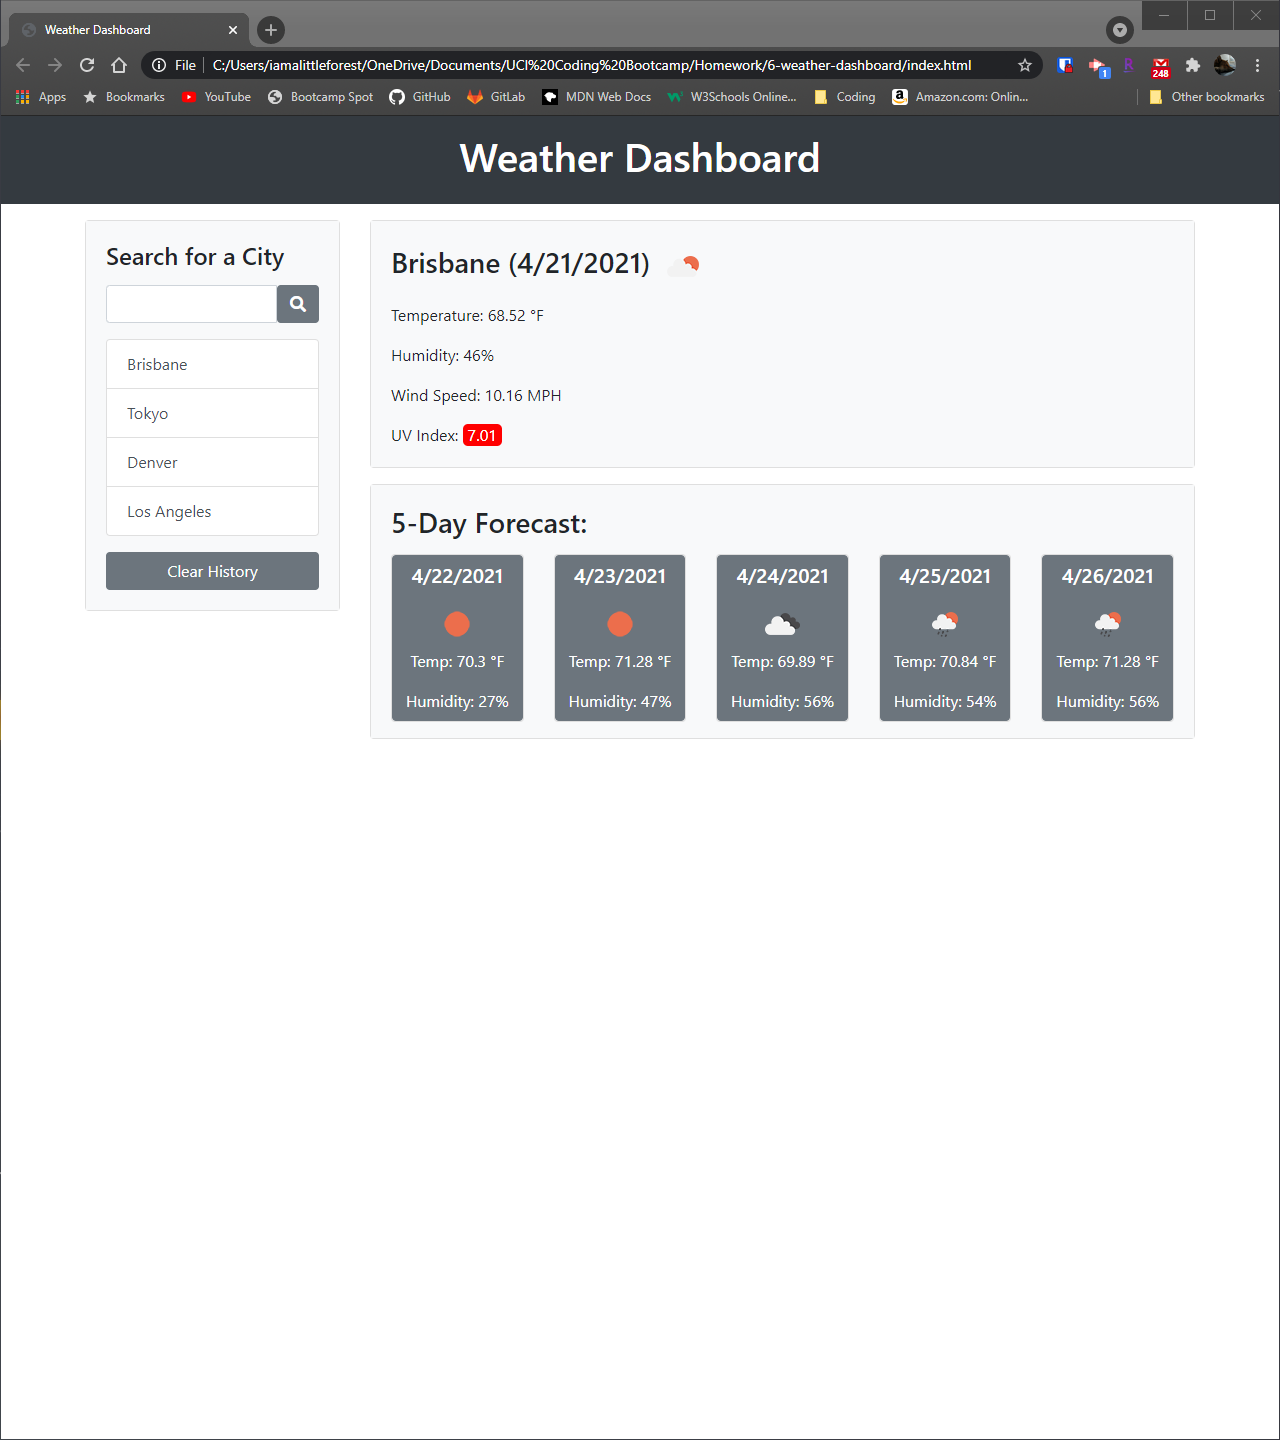
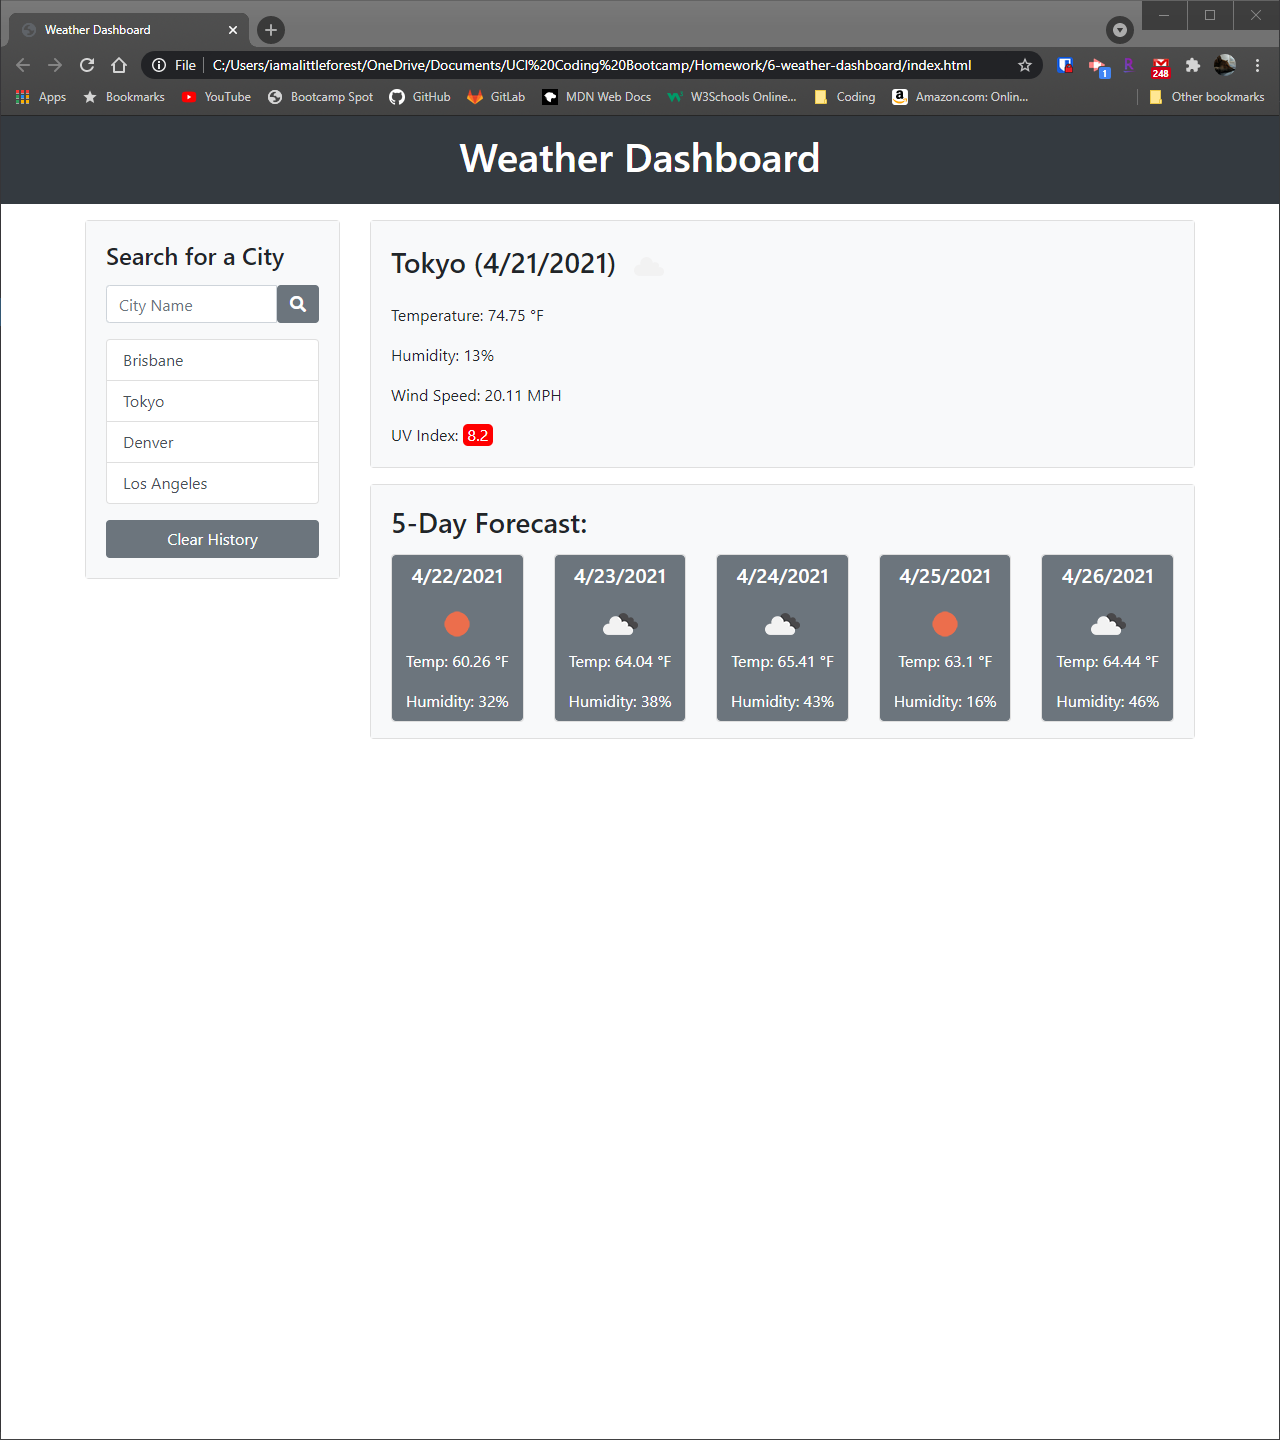
added comments and styling for city button padding and focus

diff --git a/assets/css/style.css b/assets/css/style.css
@@ -1,17 +1,25 @@
+/* Styling forecast cards */
+.custom-padding {
+  padding: 0.5rem;
+}
+
+/* styling city history buttons */
 #city-name, 
 button {
   text-transform: capitalize;
 }
 
-.city-button:hover {
+.city-button {
+  padding: .5rem 1rem;
+}
+
+.city-button:hover,
+.city-button:focus {
   background-color: #6c757d;
   color: white;
 }
 
-.custom-padding {
-  padding: 0.5rem;
-}
-
+/* styling uv index */
 .favorable,
 .moderate,
 .severe {
